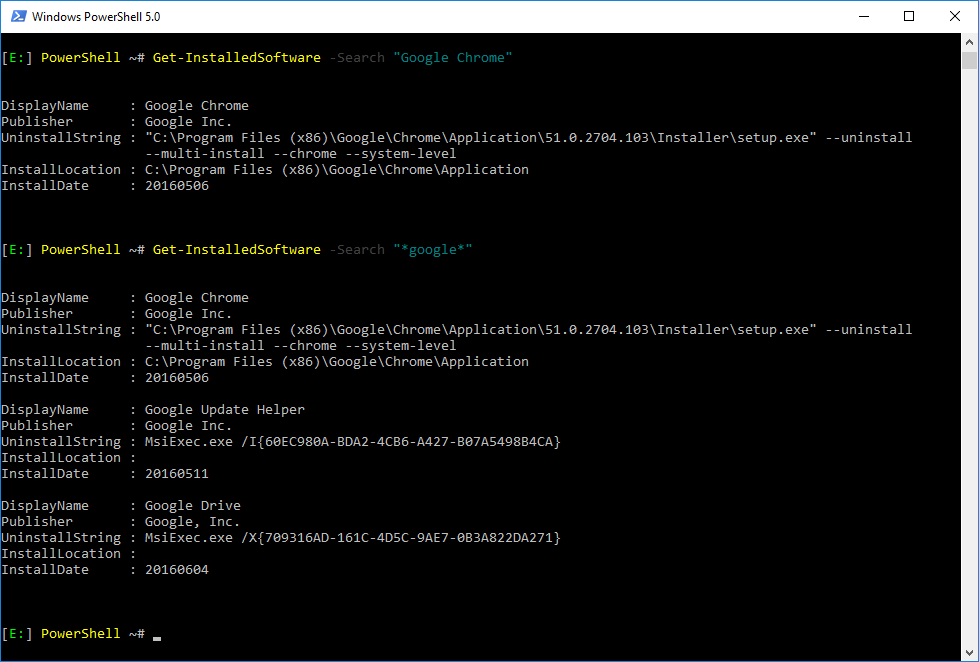
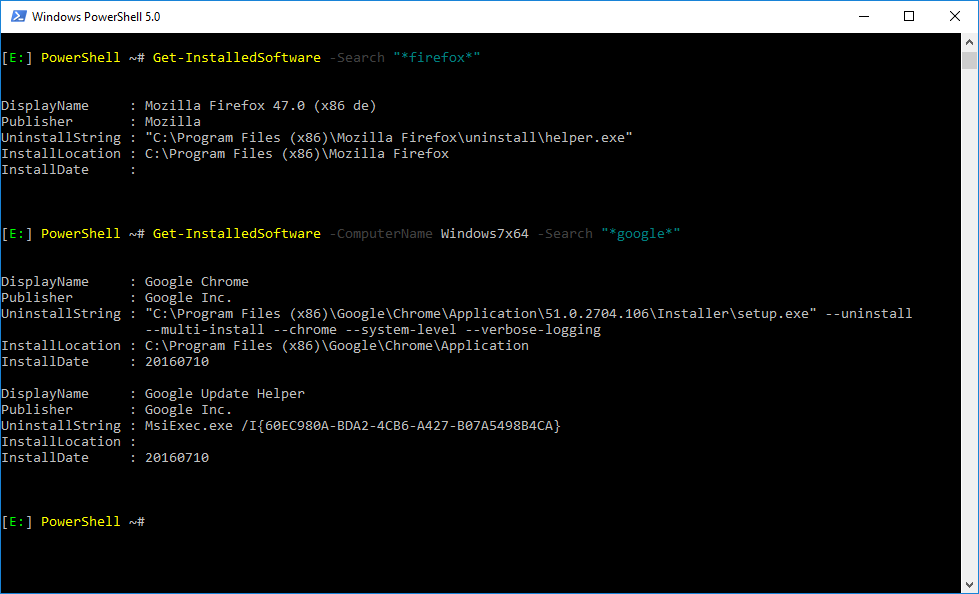
Added Parameter -ComputerName

diff --git a/Documentation/Get-InstalledSoftware.README.md b/Documentation/Get-InstalledSoftware.README.md
@@ -7,7 +7,7 @@ Get all installed software with DisplayName, Publisher and UninstallString.
 
 ## Description
 
- Get all installed software with DisplayName, Publisher and UninstallString. The result will also include the InstallLocation and the InstallDate. To reduce the results, you can use the parameter "-Search *PRODUCTNAME*".
+ Get all installed software with DisplayName, Publisher and UninstallString from local or remote computer. The result will also include the InstallLocation and the InstallDate. To reduce the results, you can use the parameter "-Search *PRODUCTNAME*".
 
 ![Screenshot](Images/Get-InstalledSoftware.png?raw=true "Get-InstalledSoftware")
 
@@ -16,13 +16,13 @@ Get all installed software with DisplayName, Publisher and UninstallString.
 ### Function
 
 ```powershell
-Get-InstalledSoftware [[-Search] <String>] [<CommonParameters>]
+Get-InstalledSoftware [[-ComputerName] <String>] [[-Search] <String>] [[-Credential] <PSCredential>] [<CommonParameters>]
 ```
 
 ### Script
 
 ```powershell
-.\Get-InstalledSoftware.ps1 [[-Search] <String>] [<CommonParameters>]
+.\Get-InstalledSoftware.ps1 [[-ComputerName] <String>] [[-Search] <String>] [[-Credential] <PSCredential>] [<CommonParameters>]
 ```
 
 ## Example
@@ -42,7 +42,7 @@ InstallDate     : 20160506
 ### Script
 
 ```powershell
-PS> .\Get-InstalledSoftware.ps1 -Search "*visual studio*"
+PS> .\Get-InstalledSoftware.ps1 -ComputerName TEST-PC-01 -Search "*visual studio*" | Format-Table
 
 DisplayName                        UninstallString                    InstallLocation                    InstallDate
 -----------                        ---------------                    ---------------                    -----------
